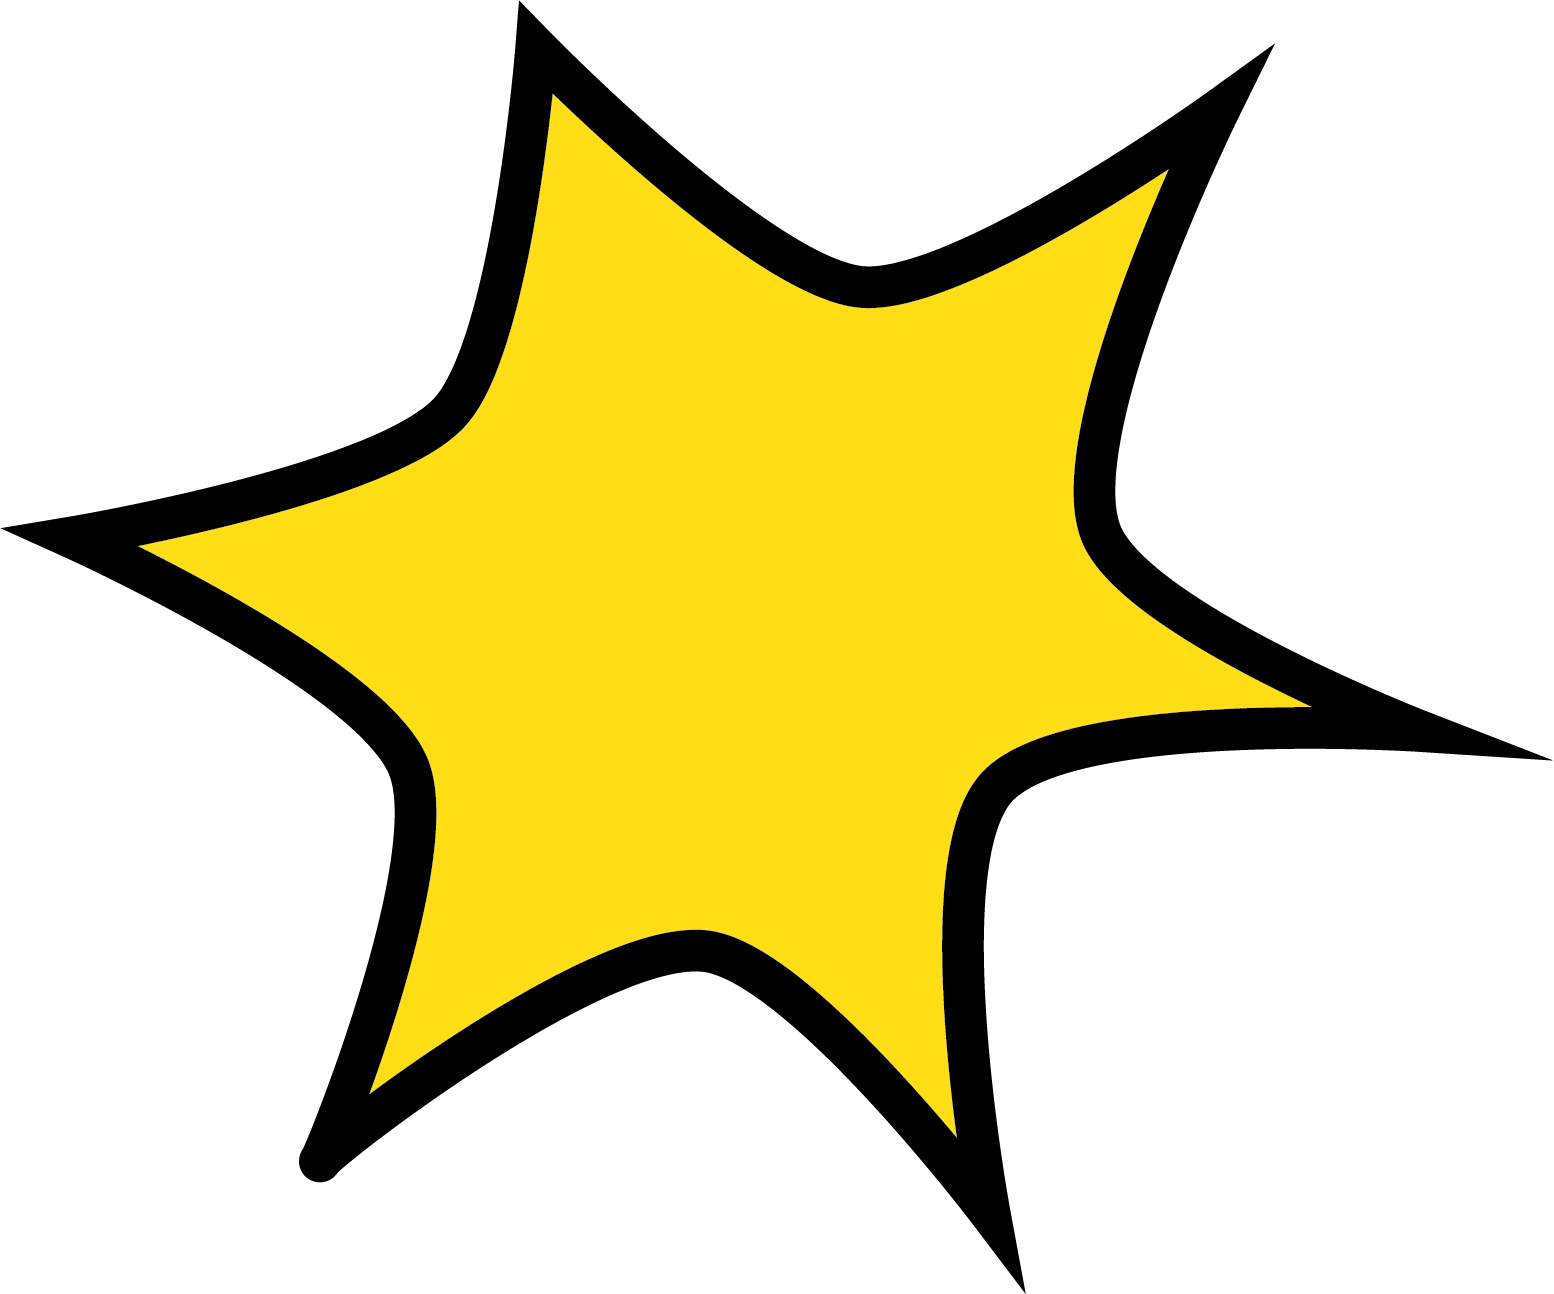
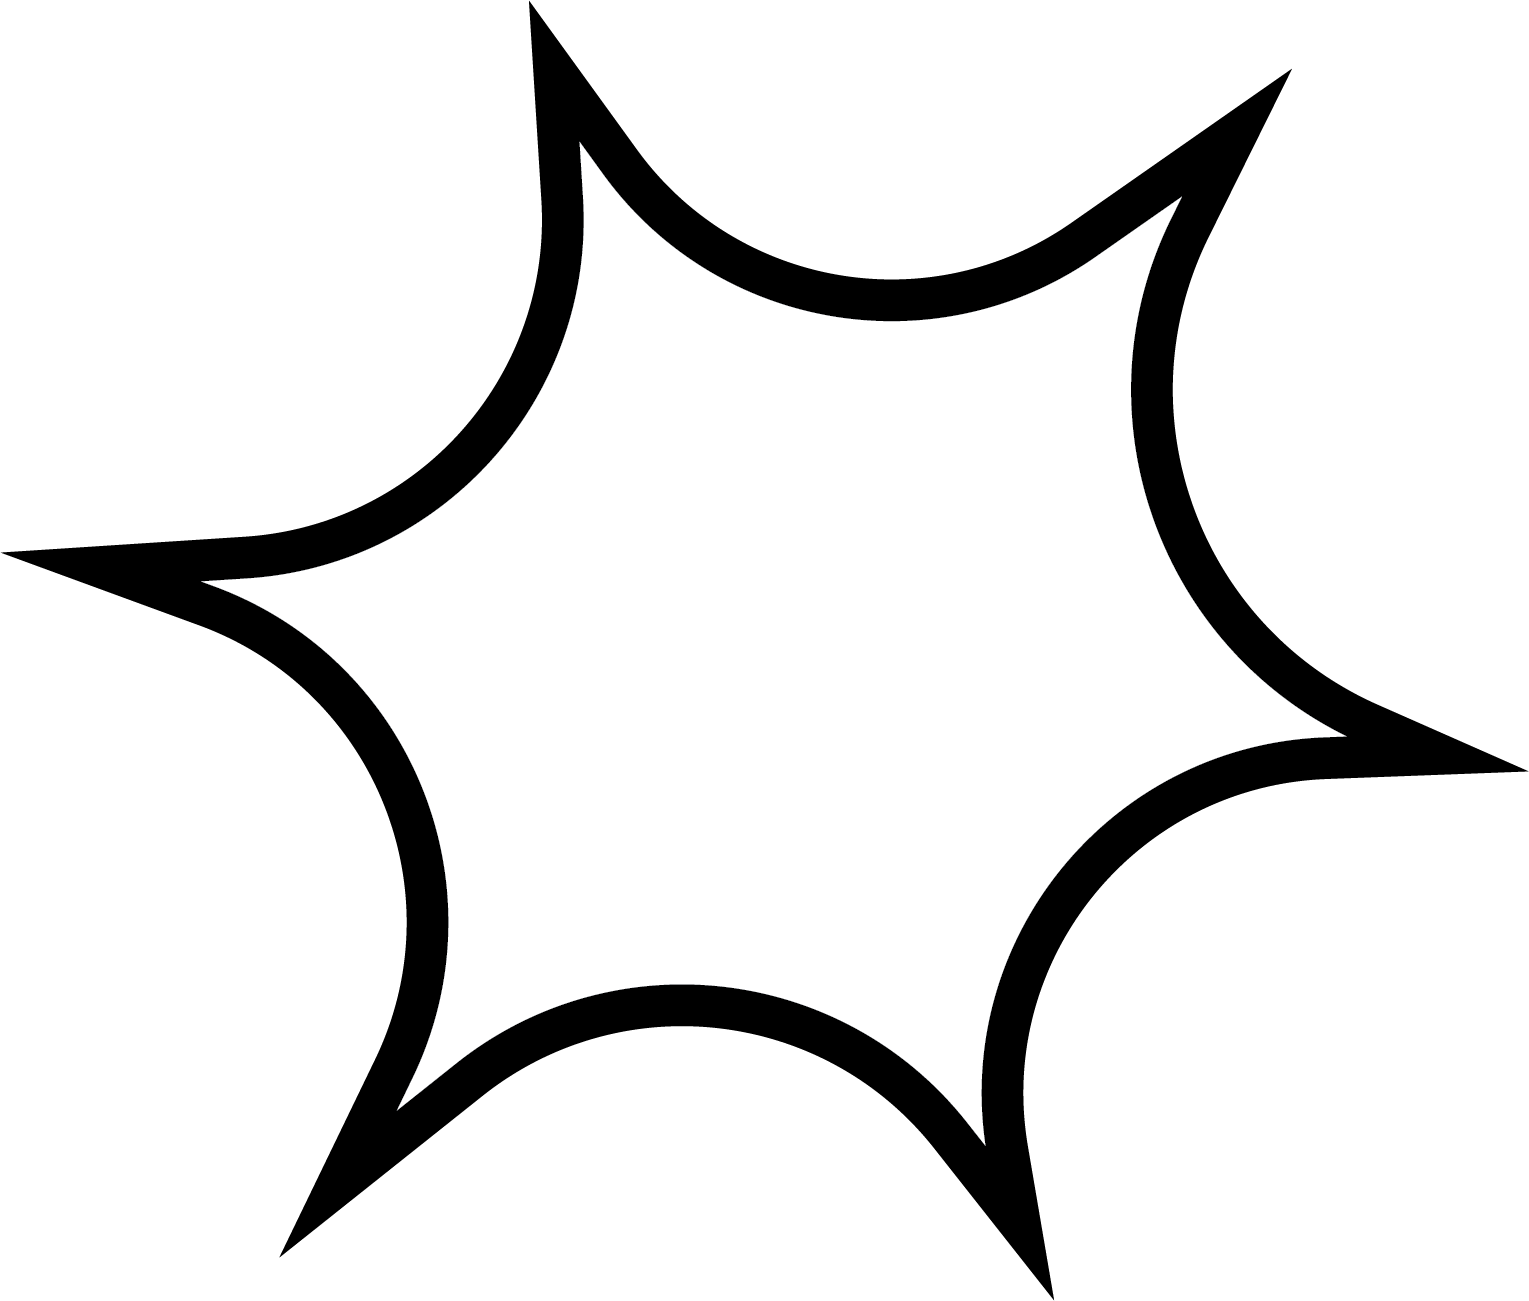
simulation bug fix + pause menu
fixed simulation bug where the simulation ball was a different size than the real one. reworked the collision icon. started adding a pause menu.

diff --git a/Assets/Scripts/MechanicsScripts/ShootBall.cs b/Assets/Scripts/MechanicsScripts/ShootBall.cs
@@ -151,7 +151,7 @@ public class ShootBall : MonoBehaviour
         {
             Destroy(simulatedObj);
         }
-        //slr.positionCount = 0;//deleting line
+        slr.positionCount = 0;//deleting line
         lr.positionCount = 0; //deleting line
        
         //unfreeze position
@@ -190,19 +190,38 @@ public class ShootBall : MonoBehaviour
         {
             simulatedObj = Instantiate(simulationBall, transform.position, transform.rotation);
             srb = simulatedObj.GetComponent<Rigidbody>();
+            srb.GetComponent<SimulationBall>().Init(this);
         }
         SceneManager.MoveGameObjectToScene(simulatedObj, simulationScene); //moves ball to simulation scene
+        Physics.simulationMode = SimulationMode.Script;
 
         int simCounter = 0;
         float rad = GetComponent<SphereCollider>().radius * transform.localScale.x;
         for (int i = 0; i < maxstep; i++)
         {
-            if(velocity.magnitude < 0.1f)
+            if (velocity.magnitude < 0.1f)
             {
                 slr.positionCount = i + 2;
                 slr.SetPosition(i + 1, trackPos);
-                return;
+                break;
             }
+            if(CameraFollow.innerShape != null)
+            {
+                if(!CameraFollow.innerShape.OverlapPoint(trackPos))
+                {
+                    slr.positionCount = i + 2;
+                    slr.startColor = Color.red;
+                    slr.endColor = Color.red;
+                    slr.SetPosition(i + 1, trackPos);
+                    break;
+                }
+                else
+                {
+                    slr.startColor = Color.white;
+                    slr.endColor = Color.white;
+                }
+            }
+            
             //fixed update
             gravForce = ArtificialGravity.GravityForceAtPoint(trackPos, planets.ToArray(), rb.mass);
             velocity += gravForce * Time.fixedDeltaTime / rb.mass;
@@ -210,91 +229,76 @@ public class ShootBall : MonoBehaviour
 
             //physics update
             trackPos += velocity * Time.fixedDeltaTime;
-            foreach (SphereCollider t in planetTransform.GetComponentsInChildren<SphereCollider>())
+            foreach (Rigidbody r in planets)
             {
-                if (Vector3.Distance(t.transform.position, trackPos) <= rad + 0.001f + t.transform.localScale.x)
+                if (Vector3.Distance(r.position, trackPos) <= rad + r.transform.localScale.x)
                 {
                     srb.position = prevPos;
                     srb.velocity = velocity;
-                    int maxIterations = maxstep;
-                    Physics.simulationMode = SimulationMode.Script;
                     physicsScene.Simulate(Time.fixedDeltaTime);
-                    Physics.simulationMode = SimulationMode.FixedUpdate;
                     trackPos = srb.position;
                     velocity = srb.velocity;
                     simCounter++;
-                    print("Simulation at step #" + i + " | Total Simulations: " + simCounter);
-                    //slr.positionCount = i + 2;
-                    //slr.SetPosition(i + 1, trackPos);
-                    //return;
-
-                    //float surfaceAngle = Vector3.Angle(velocity, (trackPos - t.transform.position).normalized);
-                    //float coefficient = velocity.magnitude >= 0.01f ? 0.45f : 0.45f;
-                    //float normalForce = rb.mass * gravForce.magnitude;
-                    //float friction = normalForce * coefficient * Mathf.Cos(surfaceAngle);
-
-
-                    //velocity = (velocity* 0.45f);
-                    //RaycastHit raycastHit;
-                    //if (Physics.SphereCast(prevPos, rad, (trackPos - prevPos).normalized, out raycastHit, (trackPos - prevPos).magnitude))
-                    //{
-                    //    float totalDist = (trackPos - prevPos).magnitude;
-                    //    Vector3 sphereCentre = raycastHit.point + raycastHit.normal * rad;
-                    //    float extraDist = totalDist - (sphereCentre - prevPos).magnitude;
-                    //    // Calculate the reflection of velocity using the surface normal
-
-                    //    velocity = 0* Vector3.Reflect(velocity, raycastHit.normal);
-
-                    //    // Move the object to the collision point
-                    //    trackPos = sphereCentre + (0.02f * (extraDist / totalDist) * velocity);
-
-
-                    //    break; // Exit the loop after handling the collision
-                    //}
-                    //if (Physics.SphereCast(prevPos, rad, (trackPos - prevPos).normalized, out raycastHit, (trackPos - prevPos).magnitude))
-                    //{
-                    //    float totalDist = (trackPos - prevPos).magnitude;
-                    //    Vector3 sphereCentre = raycastHit.point + raycastHit.normal * rad;
-                    //    float extraDist = totalDist - (sphereCentre - prevPos).magnitude;
-
-                    //    Vector3 u = Vector3.Dot(velocity, raycastHit.normal) * raycastHit.normal;
-                    //    Vector3 w = velocity - u;
-
-                    //    velocity = w - u * 1f;
-                    //    trackPos = sphereCentre + (0.02f * (extraDist / totalDist) * velocity) + (0.02f * velocity);
-
-                    //    break;
-                    //}
-                    //if (Physics.SphereCast(prevPos, rad, (trackPos - prevPos).normalized, out raycastHit, (trackPos - prevPos).magnitude))
-                    //{
-                    //    float totalDist = (trackPos - prevPos).magnitude;
-                    //    Vector3 sphereCentre = raycastHit.point + raycastHit.normal * rad;
-                    //    float extraDist = totalDist - (sphereCentre - prevPos).magnitude;
-
-                    //    Vector3 n = Vector3.Project(velocity, raycastHit.normal);
-                    //    Vector3 a = velocity - n;
-
-                    //    velocity = a - n;
-                    //    trackPos = sphereCentre + (0.02f * (extraDist / totalDist) * velocity);
-
-                    //    break;
-                    //}
+                    //print("Simulation at step #" + i + " | Total Simulations: " + simCounter);
                 }
             }
+            //RaycastHit raycastHit;
+            //if (Physics.Raycast(prevPos, (trackPos - prevPos).normalized, out raycastHit, (trackPos - prevPos).magnitude) || colliding)
+            //{
+            //}
 
+            //collisions
+            //foreach (Rigidbody r in planets)
+            //{
+            //    if (Vector3.Distance(r.position, trackPos) <= rad + 0.1f + r.transform.localScale.x)
+            //    {
+            //        //RaycastHit raycastHit;
+            //        //if (Physics.SphereCast(prevPos, rad, (trackPos - prevPos).normalized, out raycastHit, (trackPos - prevPos).magnitude))
+            //        //{
+            //        //    float totalDist = (trackPos - prevPos).magnitude;
+            //        //    Vector3 sphereCentre = raycastHit.point + raycastHit.normal * rad;
+            //        //    float extraDist = totalDist - (sphereCentre - prevPos).magnitude;
+            //        //    // Calculate the reflection of velocity using the surface normal
+
+            //        //    velocity = 0* Vector3.Reflect(velocity, raycastHit.normal);
+
+            //        //    // Move the object to the collision point
+            //        //    trackPos = sphereCentre + (0.02f * (extraDist / totalDist) * velocity);
+
+
+            //        //    break; // Exit the loop after handling the collision
+            //        //}
+            //        //if (Physics.SphereCast(prevPos, rad, (trackPos - prevPos).normalized, out raycastHit, (trackPos - prevPos).magnitude))
+            //        //{
+            //        //    float totalDist = (trackPos - prevPos).magnitude;
+            //        //    Vector3 sphereCentre = raycastHit.point + raycastHit.normal * rad;
+            //        //    float extraDist = totalDist - (sphereCentre - prevPos).magnitude;
+
+            //        //    Vector3 u = Vector3.Dot(velocity, raycastHit.normal) * raycastHit.normal;
+            //        //    Vector3 w = velocity - u;
+
+            //        //    velocity = w - u * 1f;
+            //        //    trackPos = sphereCentre + (0.02f * (extraDist / totalDist) * velocity) + (0.02f * velocity);
+
+            //        //    break;
+            //        //}
+            //    }
+            //}
             //end physics update
-            if(dist + (trackPos - prevPos).magnitude > maxLengthSim)
+            if (dist + (trackPos - prevPos).magnitude > maxLengthSim)
             {
                 float distDifference = maxLengthSim - dist;
                 Vector3 finalPos = prevPos + (trackPos-prevPos).normalized * distDifference;
                 slr.positionCount = i + 2;
                 slr.SetPosition(i+1, finalPos);
-                return;
+                break;
             }
             dist += (trackPos - prevPos).magnitude;
             prevPos = trackPos;
             slr.SetPosition(i + 1, trackPos);
         }
+        Physics.simulationMode = SimulationMode.FixedUpdate;
+        if(simulated) { DrawCollisionIcons(); }
     }
 
     #endregion

diff --git a/Assets/PauseManager.cs b/Assets/PauseManager.cs
@@ -1,9 +1,18 @@
 using System.Collections;
 using System.Collections.Generic;
+using Unity.VisualScripting;
 using UnityEngine;
+using UnityEngine.SceneManagement;
 
 public class PauseManager : MonoBehaviour
 {
+    public delegate void PauseGame();
+    public PauseGame pauseGame;
+    public delegate void UnpauseGame();
+    public UnpauseGame unpauseGame;
+
+    [SerializeField]
+    string[] dontPauseScene;
     Canvas pausecanvas;
     private void Awake()
     {
@@ -12,13 +21,55 @@ public class PauseManager : MonoBehaviour
     // Start is called before the first frame update
     void Start()
     {
-        pausecanvas.renderMode = RenderMode.ScreenSpaceCamera;
-        pausecanvas.worldCamera = Camera.main;
+        pausecanvas.enabled = false;
     }
 
     // Update is called once per frame
     void Update()
     {
-        
+        PauseInput();
     }
+    void PauseInput()
+    {
+        if (Input.GetKeyDown(KeyCode.Escape))
+        {
+            foreach (string s in dontPauseScene)
+            {
+                if (SceneManager.GetActiveScene().name == s)
+                {
+                    return;
+                }
+            }
+            pauseGame?.Invoke();
+        }
+    }
+    void Pause()
+    {
+        Time.timeScale = 0;
+        pausecanvas.enabled = true;
+    }
+    void Unpause()
+    {
+        Time.timeScale = 1;
+        pausecanvas.enabled = false;
+    }
+    public void ResumeButton()
+    {
+        unpauseGame.Invoke();
+    }
+    public void MenuButton()
+    {
+        unpauseGame.Invoke();
+    }
+    private void OnEnable()
+    {
+        pauseGame += Pause;
+        unpauseGame += Unpause;
+    }
+    private void OnDisable()
+    {
+        pauseGame -= Pause;
+        unpauseGame -= Unpause;
+    }
+
 }

diff --git a/Assets/Scripts/MechanicsScripts/SimulationBall.cs b/Assets/Scripts/MechanicsScripts/SimulationBall.cs
@@ -11,6 +11,6 @@ public class SimulationBall : MonoBehaviour
     }
     private void OnCollisionEnter(Collision collision)
     {
-        //sB.BallCollides(collision.GetContact(0).point);
+        sB.BallCollides(collision.GetContact(0).point);
     }
 }
